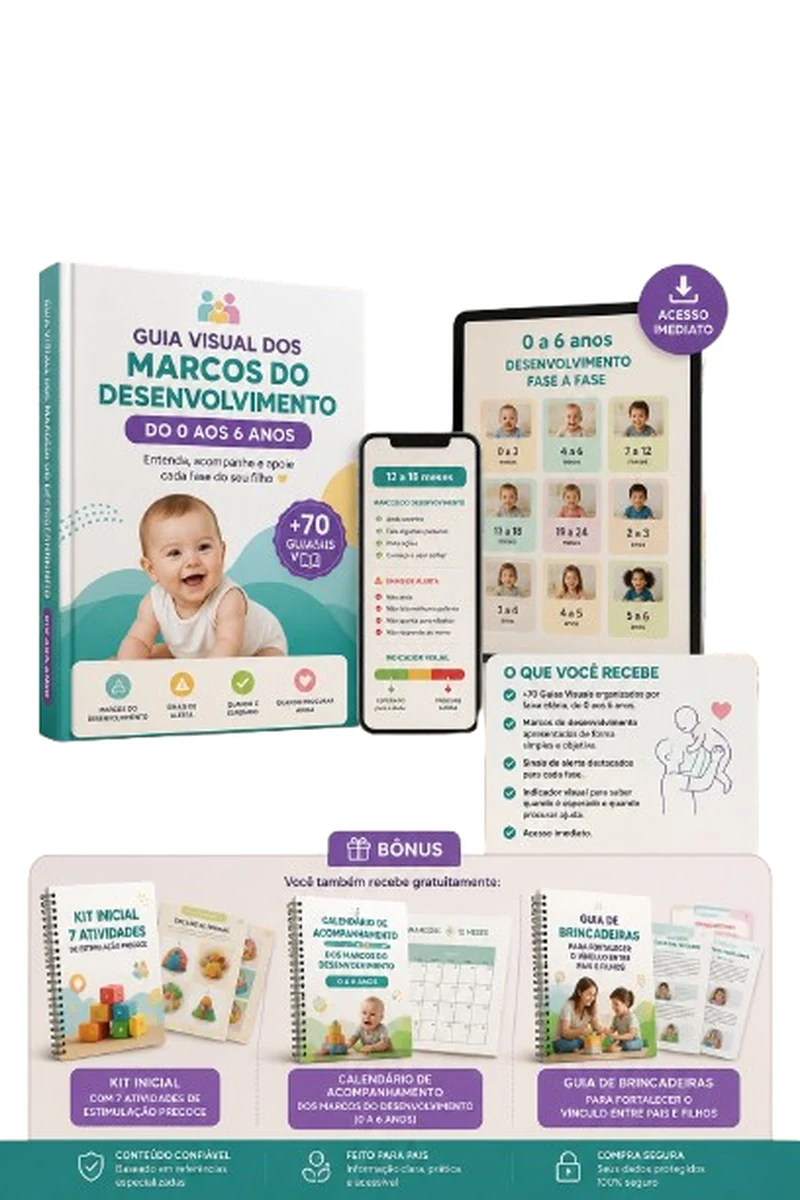
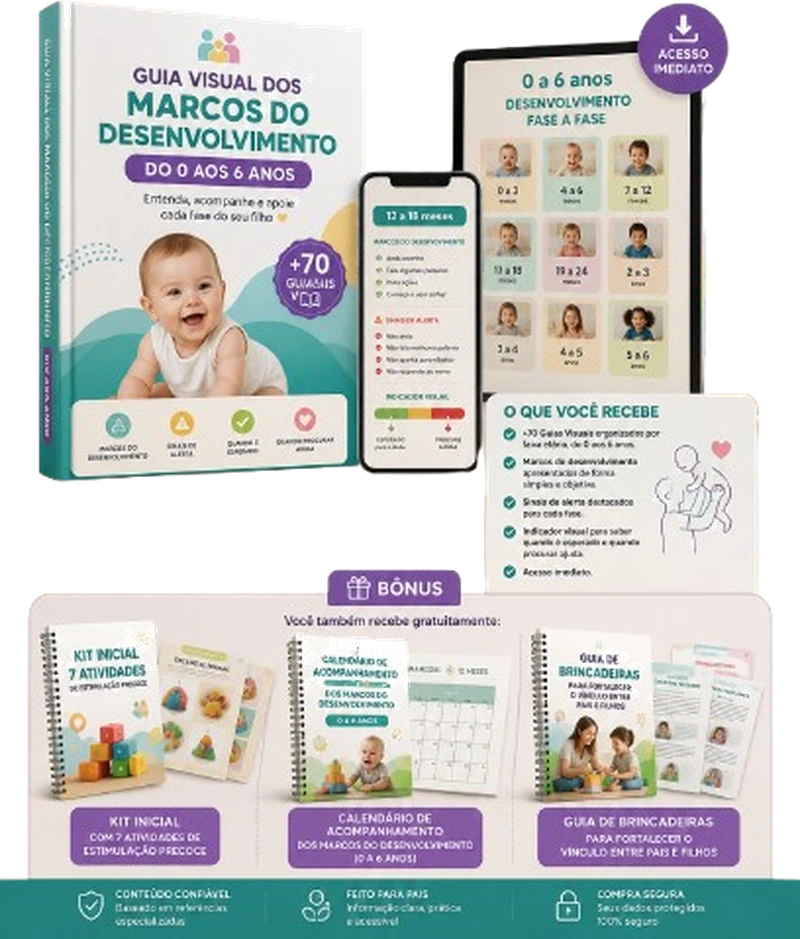
fix: aplica fundo transparente na div e imagem, mantendo apenas a borda branca de 2.5px em volta da moldura do mockup

diff --git a/index.html b/index.html
@@ -78,8 +78,8 @@
     .hero h1 em{color:var(--primary);font-style:normal;background:linear-gradient(120deg, rgba(244,143,177,0.3) 0%, rgba(244,143,177,0) 100%);padding:0 6px;border-radius:4px}
     .hero__sub{font-size:clamp(15px, 4.2vw, 18px);color:#4A4A4A;line-height:1.65;margin-bottom:28px;max-width:640px}
     
-    /* MOCKUP DO PRODUTO (MOLDURA CARD BRANCO ELEGANTE) */
-    .hero__img-wrap{width:100%;max-width:440px;margin:0 auto;background:#ffffff;padding:12px;border-radius:18px;box-shadow:0 12px 32px rgba(0,0,0,0.07);border:1px solid rgba(194,24,91,0.12)}
+    /* MOCKUP DO PRODUTO (MOLDURA COM BORDA BRANCA E FUNDO DO SITE) */
+    .hero__img-wrap{width:100%;max-width:440px;margin:0 auto;background:transparent;padding:12px;border-radius:20px;border:2.5px solid #ffffff;box-shadow:0 10px 28px rgba(194,24,91,0.08)}
     .hero__img{width:100%;height:auto;display:block;border-radius:10px}
 
     /* === BOTÃO CTA DE ALTA CONVERSÃO (VERDE CHECKOUT) === */
